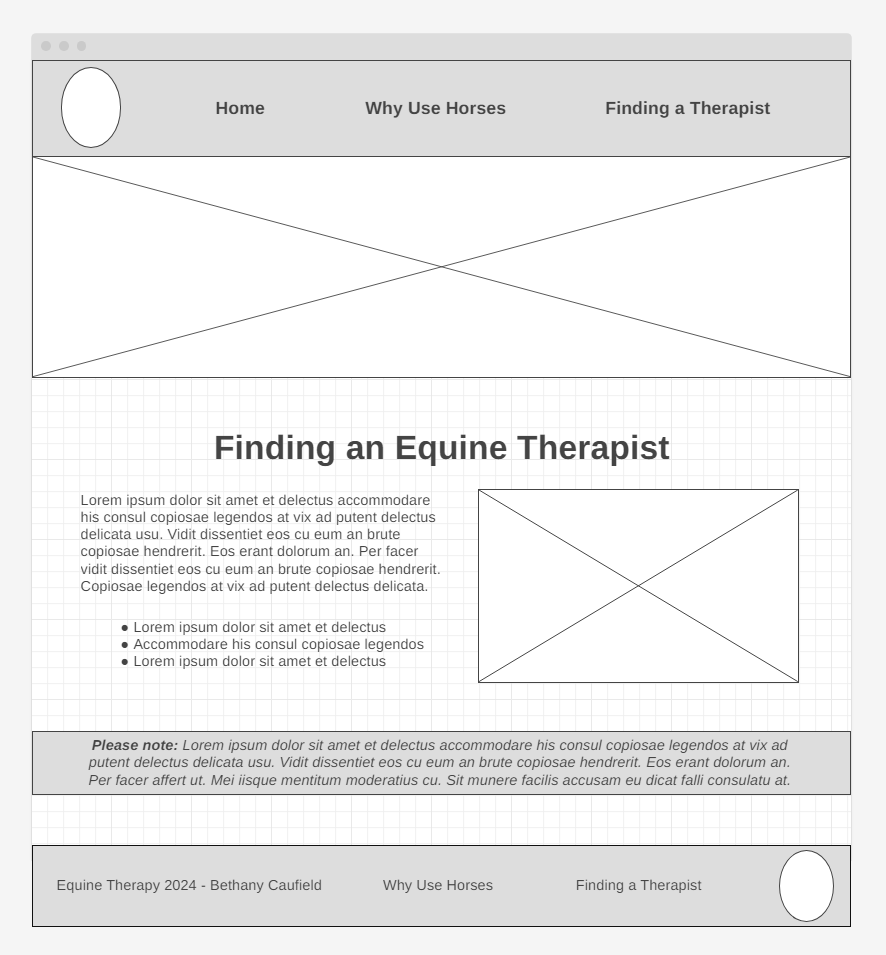
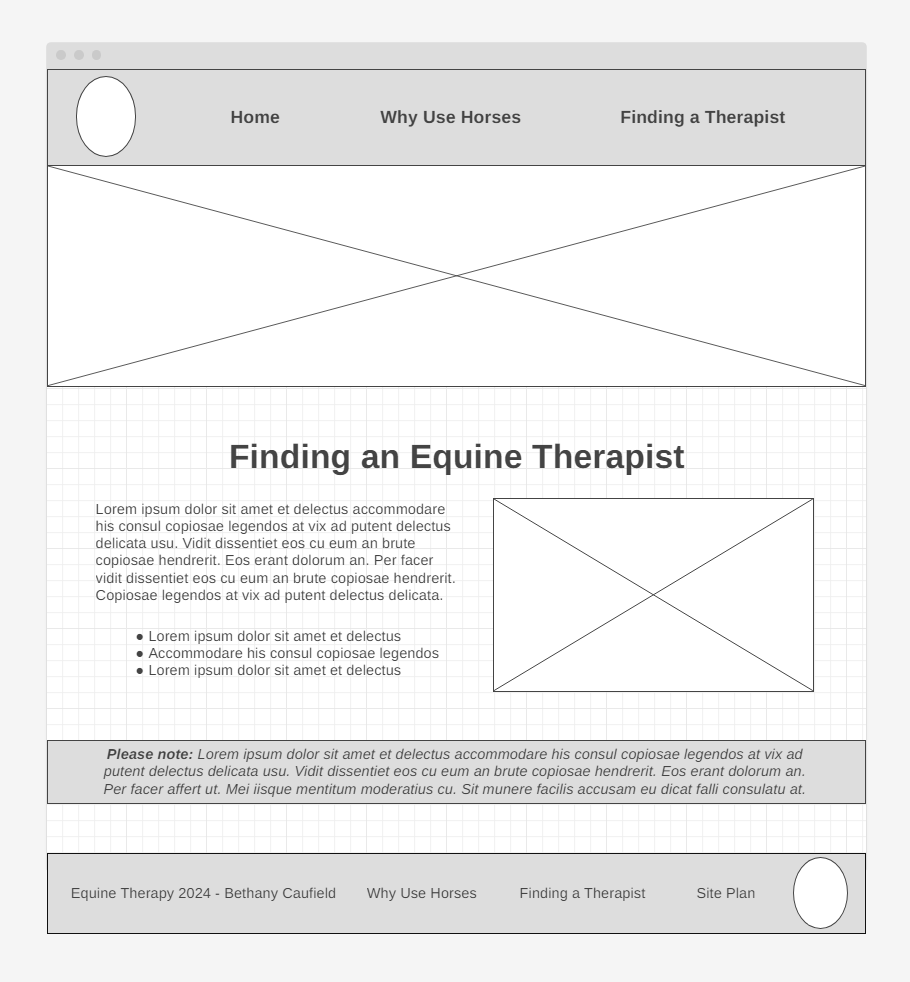
Removed site plan from headers of pers site

diff --git a/equine_therapy/finding_therapist.html b/equine_therapy/finding_therapist.html
@@ -15,7 +15,6 @@
                 <a href="index.html">Home</a>
                 <a href="why_horses.html">Why Use Horses</a>
                 <a href="finding_therapist.html">Finding a Therapist</a>
-                <a href="site-plan.html">Site Plan</a>
             </nav>
     </header>
     <div id="hero">

diff --git a/equine_therapy/index.html b/equine_therapy/index.html
@@ -15,7 +15,6 @@
                 <a href="index.html">Home</a>
                 <a href="why_horses.html">Why Use Horses</a>
                 <a href="finding_therapist.html">Finding a Therapist</a>
-                <a href="site-plan.html">Site Plan</a>
             </nav>
     </header>
     <div id="hero">

diff --git a/equine_therapy/why_horses.html b/equine_therapy/why_horses.html
@@ -15,7 +15,6 @@
                 <a href="index.html">Home</a>
                 <a href="why_horses.html">Why Use Horses</a>
                 <a href="finding_therapist.html">Finding a Therapist</a>
-                <a href="site-plan.html">Site Plan</a>
             </nav>
     </header>
     <div id="hero">
